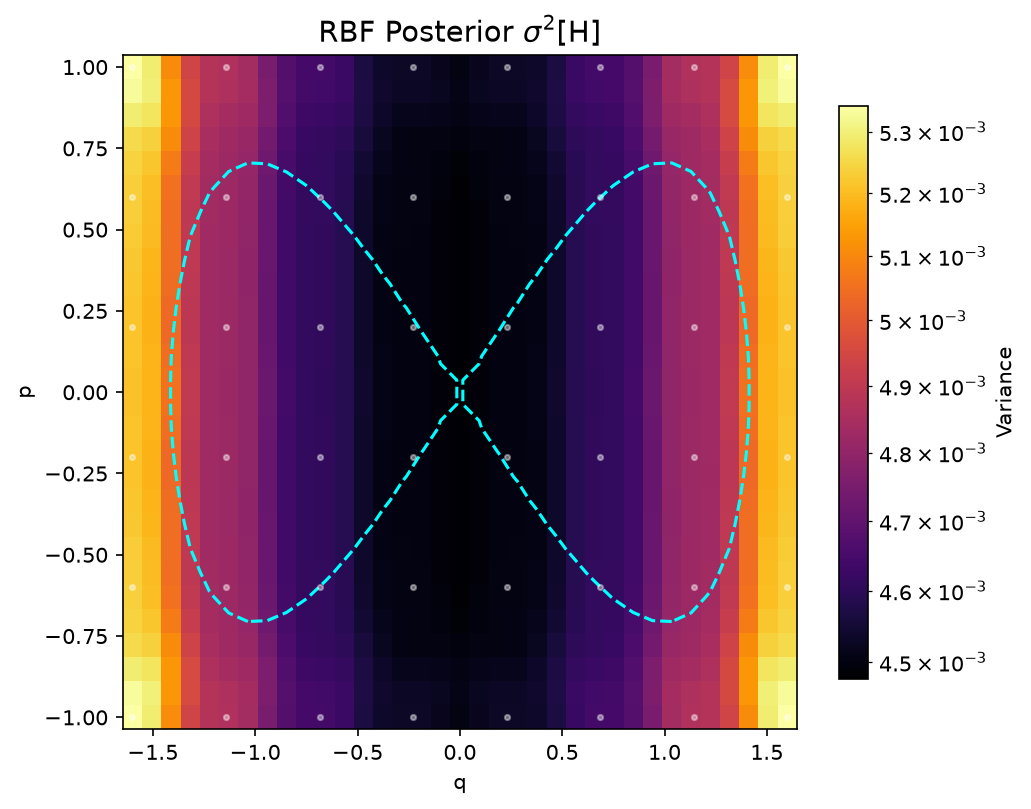
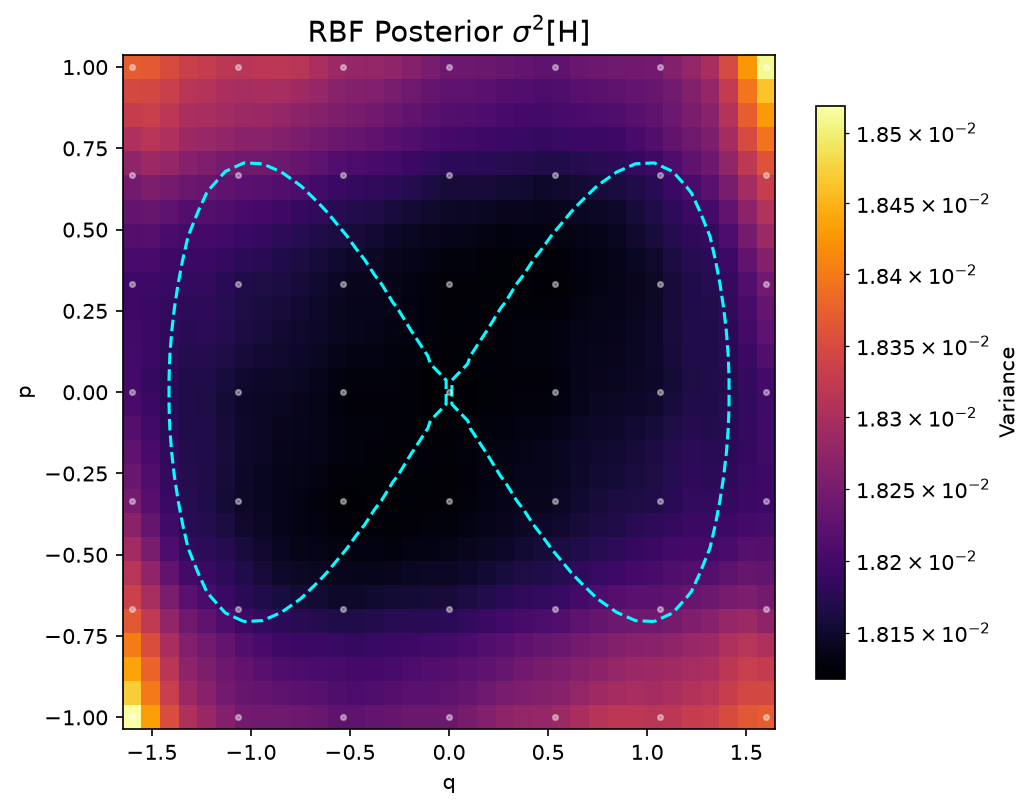
new  graphs and hyperparameters

diff --git a/experiment.py b/experiment.py
@@ -22,6 +22,7 @@ from kernels import RBFKernel, NKNKernel
 from gp import fit, predict
 from hamiltonian_gp import (stack_observations, build_noise_matrix,
                             joint_fit_empirical, predict_H_empirical,
+                            predict_grad_empirical, _nkn_deriv_matrix,
                             joint_fit, predict_H,
                             build_gram, noise_diag)
 
@@ -32,14 +33,14 @@ FIGDIR = 'figures/'
 Q_RANGE = (-1.6, 1.6)
 P_RANGE = (-1.0, 1.0)
 
-N_EST_Q, N_EST_P = 8, 6
-DT_JAC   = 0.1
-N_EPS    = 40
-EPS_STD  = 0.02
+N_EST_Q, N_EST_P = 7, 7
+DT_JAC   = 0.2
+N_EPS    = 30
+EPS_STD  = 0.05
 
 N_FINE_Q, N_FINE_P = 35, 28
-NKN_NQ, NKN_NP = 4, 3
-MAX_ITER = 300
+NKN_NQ, NKN_NP = 4,4
+MAX_ITER = 5_00
 
 PDF_T = 2.0; PDF_SIGMA = 0.08; PDF_N_SAMPLES = 400; PDF_N_SAVE = 6
 
@@ -232,11 +233,12 @@ def main():
             vmax = data_mean * 1.10
             pcm = ax.pcolormesh(FQ, FP, np.full_like(data, data_mean),
                                 shading='auto', cmap='inferno',
-                                norm=LogNorm(vmin=vmin, vmax=vmax))
+                                norm=Normalize(vmin=vmin, vmax=vmax))
             cbar = fig.colorbar(pcm, ax=ax, shrink=0.85, label='Variance')
-            # Force a tick exactly at the true constant value
+            # Show ONLY the true constant value as a tick (no auto ticks)
             cbar.set_ticks([data_mean])
             cbar.set_ticklabels([f'{data_mean:.4e}'])
+            cbar.ax.minorticks_off()
         else:
             vmin = max(data[data > 0].min(), 1e-12)
             vmax = data.max()
@@ -364,12 +366,61 @@ Ratio (RBF/NKN) Post.\ Mean & \multicolumn{4}{c}{%.1f$\times$} \\
     sc = ax.scatter(nkn.centers[:, 0], nkn.centers[:, 1],
                     c=amps, s=60, cmap='plasma', edgecolors='k', zorder=5)
     plt.colorbar(sc, ax=ax, label='Amplitude λ_i')
-    ax.set_xlim(-2.2, 2.2); ax.set_ylim(-1.5, 1.5)
+    ax.set_xlim(-2.2*1.5, 2.2*1.5); ax.set_ylim(-1.5*1.5, 1.5*1.5)
     ax.set_title('NKN: Anisotropic Inducing Points', fontsize=13)
     ax.set_xlabel('q'); ax.set_ylabel('p')
     fig.tight_layout()
     fig.savefig(f'{FIGDIR}/nkn_structure.png', dpi=150); plt.close(fig)
     print("  → nkn_structure.png")
+
+    # ══════════════════════════════════════════════════════════════════════
+    # Velocity variance from the Hamiltonian GP: Var[q̇] and Var[ṗ]
+    # q̇ = ∂pH, ṗ = -∂qH → Var[q̇] = Var[∂pH], Var[ṗ] = Var[∂qH]
+    # ══════════════════════════════════════════════════════════════════════
+    from hamiltonian_gp import predict_grad_empirical
+
+    vel_var = {}  # {(kernel_name, 'qdot'/'pdot', 'prior'/'posterior'): array}
+
+    for name, kern in [('NKN', nkn), ('RBF', rbf)]:
+        for comp, comp_idx, label in [(1, 1, 'qdot'), (0, 0, 'pdot')]:
+            # comp=1 → ∂pH = q̇,  comp=0 → ∂qH = -ṗ (Var same)
+            mu_g, var_g = predict_grad_empirical(
+                kern, Z_est, y, Z_fine, noise_mat, comp_idx)
+            vel_var[(name, label, 'posterior')] = var_g
+
+            # Prior: k_{∂a,∂a}(z,z)
+            if hasattr(kern, 'log_lam'):
+                Ds_fine, _ = _nkn_deriv_matrix(kern, Z_fine)
+                lam = np.exp(kern.log_lam)
+                prior = np.sum(Ds_fine[:, comp_idx, :]**2 * lam[np.newaxis,:], axis=1)
+            else:
+                prior = np.full(len(Z_fine), kern.sigma_f**2 / kern.ell**2)
+            vel_var[(name, label, 'prior')] = prior
+
+    # ── 2×4 grid: rows = qdot/pdot, cols = RBF prior / RBF post / NKN prior / NKN post
+    fig, axes = plt.subplots(2, 4, figsize=(22, 10))
+    for row, comp in enumerate(['qdot', 'pdot']):
+        comp_label = r'$\dot{q}$' if comp == 'qdot' else r'$\dot{p}$'
+        for col, (kname, stage) in enumerate([
+                ('RBF','prior'), ('RBF','posterior'),
+                ('NKN','prior'), ('NKN','posterior')]):
+            ax = axes[row, col]
+            v = vel_var[(kname, comp, stage)].reshape(fine_shape)
+            vmin = max(v[v>0].min(), 1e-12); vmax = v.max()
+            pcm = ax.pcolormesh(FQ, FP, v, shading='auto', cmap='inferno',
+                                norm=LogNorm(vmin=vmin, vmax=vmax))
+            fig.colorbar(pcm, ax=ax, shrink=0.85)
+            ax.contour(FQ, FP, H_true, levels=[0], colors='cyan',
+                       linewidths=1.2, linestyles='--')
+            ax.set_title(f'{kname} {stage} Var[{comp_label}]', fontsize=11)
+            ax.set_xlabel('q'); ax.set_ylabel('p')
+
+    fig.suptitle(r'Velocity Variance from Hamiltonian GP: Prior and Posterior for $\dot{q}$ and $\dot{p}$',
+                 fontsize=14, y=1.02)
+    fig.tight_layout()
+    fig.savefig(f'{FIGDIR}/velocity_var_from_H.png', dpi=150, bbox_inches='tight')
+    plt.close(fig)
+    print("  → velocity_var_from_H.png")
 
     # ── Summary ──────────────────────────────────────────────────────────
     print(f"\n{'='*60}")

diff --git a/hamiltonian_gp.py b/hamiltonian_gp.py
@@ -295,7 +295,76 @@ def joint_fit_empirical(kernel, Z, y, noise_matrix, max_iter=300,
     return res
 
 
-def predict_H_empirical(kernel, Z_train, y, Z_test, noise_matrix, jitter=1e-4):
+def predict_grad_empirical(kernel, Z_train, y, Z_test, noise_matrix,
+                           component, jitter=1e-4):
+    """
+    Posterior mean and variance of ∂H/∂z_component at test points.
+
+    component=0 → ∂qH (= -ṗ),  component=1 → ∂pH (= q̇).
+
+    Cross-cov: Cov[D_s H(z*), D_t H(z_j)] = Σ_r λ_r D_s φ_r(z*-p_r) D_t φ_r(z_j-p_r)
+    where s indexes the gradient component (0 or 1) at the test point.
+    """
+    N = len(Z_train)
+    K = build_gram(kernel, Z_train) + noise_matrix + jitter * np.eye(len(y))
+
+    try:
+        L, lower = cho_factor(K, lower=True)
+        alpha = cho_solve((L, lower), y)
+        solve_fn = lambda b: cho_solve((L, lower), b)
+    except np.linalg.LinAlgError:
+        eigvals, eigvecs = np.linalg.eigh(K)
+        eigvals = np.maximum(eigvals, 1e-6)
+        alpha = eigvecs @ (np.diag(1.0/eigvals) @ (eigvecs.T @ y))
+        solve_fn = lambda b: eigvecs @ (np.diag(1.0/eigvals) @ (eigvecs.T @ b))
+
+    M_test = len(Z_test)
+
+    if hasattr(kernel, 'log_lam'):
+        # NKN fast path
+        Ds_train, _ = _nkn_deriv_matrix(kernel, Z_train)
+        Ds_test, _ = _nkn_deriv_matrix(kernel, Z_test)
+        lam = np.exp(kernel.log_lam)
+
+        # Cross-cov: Cov[D_component H(z*), D_t H(z_j)]
+        # = Σ_r λ_r D_component φ_r(z*-p_r) D_t φ_r(z_j-p_r)
+        K_cross = np.zeros((M_test, N_OBS * N))
+        for t in range(N_OBS):
+            A = Ds_test[:, component, :] * lam[np.newaxis, :]
+            B = Ds_train[:, t, :]
+            K_cross[:, t::N_OBS] = A @ B.T
+
+        # Prior variance of ∂_component H: k_{ss}(z*,z*)
+        # = Σ_r λ_r [D_component φ_r(z*-p_r)]²
+        k_diag = np.sum(Ds_test[:, component, :]**2 * lam[np.newaxis, :], axis=1)
+    else:
+        # RBF: use Hermite derivatives
+        # Prior var of ∂_a H = ∂²k/∂z_a∂z'_a|_{z=z'} = σ_f²/ℓ² (always)
+        k_diag = np.full(M_test, kernel.sigma_f**2 / kernel.ell**2)
+
+        # Cross-cov via Hermite: D_component^L D_t^R k(z*, z_j)
+        # The test-point derivative is first-order (component 0 or 1)
+        # Combined with observation type t on the training side
+        K_cross = np.zeros((M_test, N_OBS * N))
+        for t in range(N_OBS):
+            mt_left, nt_left = [(1,0),(0,1)][component]  # test derivative
+            mt_right, nt_right = _MULTI[t]                 # train derivative
+            m_tot = mt_left + mt_right
+            n_tot = nt_left + nt_right
+            order_tot = m_tot + n_tot
+            sign = (-1)**_ORDER[t] * (-1)**order_tot
+            Dq = Z_test[:, 0:1] - Z_train[:, 0:1].T
+            Dp = Z_test[:, 1:2] - Z_train[:, 1:2].T
+            U = Dq / kernel.ell; V = Dp / kernel.ell
+            K_base = kernel.sigma_f**2 * np.exp(-0.5*(U**2+V**2))
+            scale = 1.0 / kernel.ell**order_tot
+            block = sign * scale * _hermite(m_tot, U) * _hermite(n_tot, V) * K_base
+            K_cross[:, t::N_OBS] = block
+
+    mu = K_cross @ alpha
+    V = solve_fn(K_cross.T)
+    var = k_diag - np.sum(K_cross.T * V, axis=0)
+    return mu, np.clip(var, 0, None)
     """Predict H with empirical per-point noise (no fitted noise params)."""
     K = build_gram(kernel, Z_train) + noise_matrix + jitter * np.eye(len(y))
     try:
@@ -401,4 +470,28 @@ def predict_H(kernel, Z_train, y, Z_test, sigma_grad, sigma_hess, jitter=1e-4):
     V = solve_fn(K_cross.T)
     var_H = k_diag - np.sum(K_cross.T * V, axis=0)
 
+    return mu_H, np.clip(var_H, 0, None)
+
+
+def predict_H_empirical(kernel, Z_train, y, Z_test, noise_matrix, jitter=1e-4):
+    """Predict H with empirical per-point noise (no fitted noise params)."""
+    K = build_gram(kernel, Z_train) + noise_matrix + jitter * np.eye(len(y))
+    try:
+        L, lower = cho_factor(K, lower=True)
+        alpha = cho_solve((L, lower), y)
+        solve_fn = lambda b: cho_solve((L, lower), b)
+    except np.linalg.LinAlgError:
+        eigvals, eigvecs = np.linalg.eigh(K)
+        eigvals = np.maximum(eigvals, 1e-6)
+        alpha = eigvecs @ (np.diag(1.0/eigvals) @ (eigvecs.T @ y))
+        solve_fn = lambda b: eigvecs @ (np.diag(1.0/eigvals) @ (eigvecs.T @ b))
+
+    K_cross = build_H_cross(kernel, Z_test, Z_train)
+    mu_H = K_cross @ alpha
+
+    M_test = len(Z_test)
+    k_diag = np.array([kernel.gram(Z_test[m:m+1], Z_test[m:m+1])[0, 0]
+                        for m in range(M_test)])
+    V = solve_fn(K_cross.T)
+    var_H = k_diag - np.sum(K_cross.T * V, axis=0)
     return mu_H, np.clip(var_H, 0, None)

diff --git a/duffing.py b/duffing.py
@@ -82,13 +82,23 @@ def estimate_hessian_field(grid_q, grid_p, dt_jac=0.1,
     for i in range(M):
         z0 = Z_grid[i]
         z0_T = integrate(z0, dt_jac)
-        mean_vel[i] = (z0_T - z0) / dt_jac
 
+        # Draw perturbations
         E = rng.normal(0, eps_std, size=(n_eps, 2))
         D = np.zeros((n_eps, 2))
+
+        # ── Gradient estimate: average of perturbed trajectories ─────────
+        # ∇̂H = -J · (1/n) Σ_i [U(z₀+ε_i; dt) - z₀] / dt
+        # This is the estimator from Section 4.1 of the paper.
+        mean_perturbed_vel = np.zeros(2)
         for j in range(n_eps):
             z_pert_T = integrate(z0 + E[j], dt_jac)
             D[j] = z_pert_T - z0_T
+            mean_perturbed_vel += (z_pert_T - z0) / dt_jac
+        mean_perturbed_vel /= n_eps
+
+        # Store raw velocity (caller applies -J to get ∇H)
+        mean_vel[i] = mean_perturbed_vel
 
         # OLS for M
         DPhi_T = np.linalg.lstsq(E, D, rcond=None)[0]
@@ -117,14 +127,12 @@ def estimate_hessian_field(grid_q, grid_p, dt_jac=0.1,
         noise_hess[i, 1, 2] = (C[0,0]*S[0,1] - C[0,1]*S[1,1]) / (2*dt2)
         noise_hess[i, 2, 1] = noise_hess[i, 1, 2]
 
-        # 2×2 gradient noise cov (sample covariance of individual ∇H estimates)
-        grad_samples = np.column_stack([
-            -(z0_T[1] + (D[:, 1] + z0_T[1] - z0[1])) / dt_jac,  # −ṗ per sample
-            (z0_T[0] + (D[:, 0] + z0_T[0] - z0[0])) / dt_jac     # q̇ per sample
-        ])  # each row is one ∇H estimate from one ε_i... 
-        # Actually simpler: use plug-in with estimated Hessian
+        # 2×2 gradient noise cov from Section 4.1:
+        # Cov(∇̂H) = (1/n)(Hess H - J/dt) Cov(ε) (Hess H - J/dt)^T
+        # Using plug-in Hessian estimate and known Cov(ε) = σ²I
         H2_est = np.array([[Hqq[i], Hqp[i]], [Hqp[i], Hpp[i]]])
-        noise_grad[i] = H2_est @ (eps_std**2 * np.eye(2)) @ H2_est.T / n_eps
+        coeff = H2_est - J_mat / dt_jac   # (Hess H - J/dt)
+        noise_grad[i] = (eps_std**2 / n_eps) * coeff @ coeff.T
 
     return Z_grid, Hqq, Hqp, Hpp, mean_vel, noise_hess, noise_grad
 

diff --git a/figures/variance_table.tex b/figures/variance_table.tex
@@ -6,13 +6,13 @@
 \hline
  & Mean & Min & Max & Std \\
 \hline
-RBF Prior $k(z,z)$ & 9.7319e-02 & 9.7319e-02 & 9.7319e-02 & 7.5403e-17 \\
-NKN Prior $k(z,z)$ & 3.0194e+00 & 2.2944e+00 & 4.0574e+00 & 4.6244e-01 \\
+RBF Prior $k(z,z)$ & 3.0001e-01 & 3.0001e-01 & 3.0001e-01 & 1.2104e-16 \\
+NKN Prior $k(z,z)$ & 3.4302e+00 & 2.1706e+00 & 4.3591e+00 & 5.5426e-01 \\
 \hline
-RBF Posterior $\sigma^2[H]$ & 4.7397e-03 & 4.4767e-03 & 5.3426e-03 & 2.3893e-04 \\
-NKN Posterior $\sigma^2[H]$ & 1.6155e-03 & 1.5776e-03 & 1.6802e-03 & 1.3910e-05 \\
+RBF Posterior $\sigma^2[H]$ & 1.8197e-02 & 1.8118e-02 & 1.8519e-02 & 6.4437e-05 \\
+NKN Posterior $\sigma^2[H]$ & 5.7520e-04 & 5.3487e-04 & 6.4468e-04 & 2.3969e-05 \\
 \hline
-Ratio (RBF/NKN) Post.\ Mean & \multicolumn{4}{c}{2.9$\times$} \\
+Ratio (RBF/NKN) Post.\ Mean & \multicolumn{4}{c}{31.6$\times$} \\
 \hline
 \end{tabular}
 \end{table}
